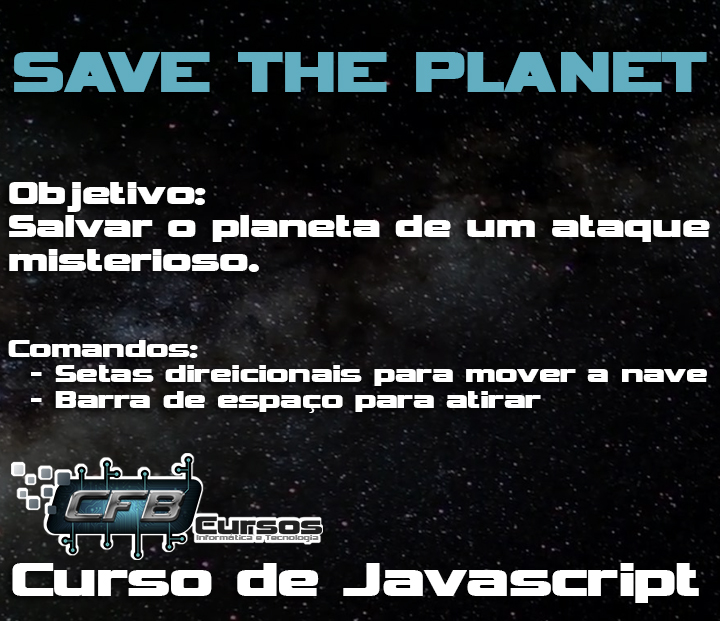
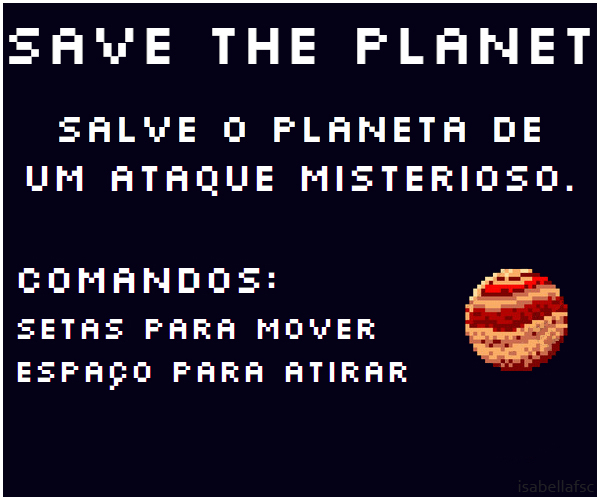
aula087

diff --git a/aula079-087 - Jogo de nave/main.js b/aula079-087 - Jogo de nave/main.js
@@ -6,7 +6,8 @@ var telaWidth, telaHeight //Tamanhos
 var velJogador, velTiro, velBomba //Velocidade
 var tecla, hpPlaneta //Controle
 var jogo = false
-var painelContBombas, intervaloBomba
+var barraPlaneta, painelContBombas, telaMensagem //Painéis
+var intervaloBomba
 var contagemBombas, indiceExplosao, indiceSom //Contador
 
 function teclaDown(event) {
@@ -47,7 +48,7 @@ function teclaUp(event) {
 function criaBomba() {
   if (jogo) {
     var bomba = document.createElement('div')
-    var posBombaX = Math.random() * telaWidth
+    var posBombaX = Math.random() * telaWidth - 20
     var posBombaY = 0
     var atributo1 = document.createAttribute('class')
     var atributo2 = document.createAttribute('style')
@@ -57,6 +58,8 @@ function criaBomba() {
     bomba.setAttributeNode(atributo2)
     document.body.appendChild(bomba)
     contagemBombas--
+    painelContBombas = document.getElementById('contBombas')
+    painelContBombas.innerHTML = 'Bombas restantes: ' + contagemBombas
   }
 }
 
@@ -68,7 +71,7 @@ function controleBombas() {
       posBomba += velBomba
       bombas[i].style.top = posBomba + 'px'
       if (posBomba > telaHeight) {
-        hpPlaneta -= 1
+        hpPlaneta -= 30   //DANO QUE O PLANETA RECEBE
         criaExplosao(2, bombas[i].offsetLeft, null)
         bombas[i].remove()
       }
@@ -124,8 +127,9 @@ function colisaoTiroBomba(tiro) {
 }
 
 function criaExplosao(tipo, x, y) {
-  if (document.getElementById('explosao' + (indiceExplosao - 5))) { //REMOVE ELEMENTO QUANDO TIVER 5 COM MESMO ID
-    document.getElementById('explosao' + (indiceExplosao - 5)).remove()
+  if (document.getElementById('explosao' + (indiceExplosao - 4))) {
+    //REMOVE ELEMENTO QUANDO TIVER 4 COM MESMO ID
+    document.getElementById('explosao' + (indiceExplosao - 4)).remove()
   }
 
   //TIPO (1 = AR) (2 = CHÃO)
@@ -163,7 +167,7 @@ function criaExplosao(tipo, x, y) {
   explosao.appendChild(img)
   explosao.appendChild(som)
   document.body.appendChild(explosao)
-  // document.getElementById('som' + indiceSom).play()
+  document.getElementById('som' + indiceSom).play()
   indiceExplosao++
   indiceSom++
 }
@@ -173,6 +177,45 @@ function controleJogador() {
   posJogadorX += dirJogadorX * velJogador
   jogador.style.top = posJogadorY + 'px'
   jogador.style.left = posJogadorX + 'px'
+
+  if (posJogadorX < 0) {
+    posJogadorX = 0
+  } else if (posJogadorX > telaWidth - 40) {
+    posJogadorX = telaWidth - 40
+  } else if (posJogadorY < 200) {
+    posJogadorY = 200
+  } else if (posJogadorY > telaHeight - 40) {
+    posJogadorY = telaHeight - 40
+  }
+}
+
+function gerenciaGame() {
+  barraPlaneta.style.width = hpPlaneta + 'px'
+
+  if (contagemBombas <= 0) {
+    jogo = false
+    clearInterval(intervaloBomba)
+    bombas = document.getElementsByClassName('bomba')
+    for (var i = 0; i < bombas.length; i++) {
+      if (bombas[i]) {
+        bombas[i].remove()
+      }
+    }
+    telaMensagem.style.backgroundImage = 'url("./assets/vitoria.jpg")'
+    telaMensagem.style.display = 'block'
+  }
+  if (hpPlaneta <= 0) {
+    jogo = false
+    clearInterval(intervaloBomba)
+    bombas = document.getElementsByClassName('bomba')
+    for (var i = 0; i < bombas.length; i++) {
+      if (bombas[i]) {
+        bombas[i].remove()
+      }
+    }
+    telaMensagem.style.backgroundImage = 'url("./assets/derrota.jpg")'
+    telaMensagem.style.display = 'block'
+  }
 }
 
 function gameLoop() {
@@ -182,14 +225,40 @@ function gameLoop() {
     controleTiros()
     controleBombas()
   }
+  gerenciaGame()
   frames = requestAnimationFrame(gameLoop)
 }
 
-function inicia() {
+function reinicia() {
+  telaMensagem.style.display = 'none'
+  clearInterval(intervaloBomba)
+  cancelAnimationFrame(frames)
+  hpPlaneta = 300
+  posJogadorX = telaWidth / 2
+  posJogadorY = telaHeight / 2
+  jogador.style.top = posJogadorY + 'px'
+  jogador.style.left = posJogadorX + 'px'
+  contagemBombas = 20   //QUANTIDADE DE BOMBAS NO JOGO
+  painelContBombas.innerHTML = 'Bombas restantes: 20'
   jogo = true
+  intervaloBomba = setInterval(criaBomba, 1700)
+  gameLoop()
+}
+
+function inicia() {
+  jogo = false
+
+  //CONTROLES TELAS
   telaWidth = window.innerWidth
   telaHeight = window.innerHeight
+  telaMensagem = document.getElementById('telaMensagem')
+  telaMensagem.style.background = 'url("./assets/intro.jpg")'
+  telaMensagem.style.display = 'block'
+  document.getElementById('btnJogar').addEventListener('click', reinicia)
+  painelContBombas = document.getElementById('contBombas')
+  painelContBombas.innerHTML = 'Bombas restantes: 20'
 
+  //CONTROLES JOGADOR
   dirJogadorX = dirJogadorY = 0
   posJogadorX = telaWidth / 2
   posJogadorY = telaHeight / 2
@@ -198,16 +267,16 @@ function inicia() {
   jogador.style.top = posJogadorY + 'px'
   jogador.style.left = posJogadorX + 'px'
 
-  clearInterval(intervaloBomba)
-  contagemBombas = 10 //QUANTIDADE DE BOMBAS NO JOGO
+  //CONTROLES BOMBAS
   velBomba = 3
-  intervaloBomba = setInterval(criaBomba, 1700)
 
+  //CONTROLES EXPLOSÃO
   indiceExplosao = indiceSom = 0
 
-  hpPlaneta = 100
-
-  gameLoop()
+  //CONTROLES PLANETA
+  hpPlaneta = 300
+  barraPlaneta = document.getElementById('barraPlaneta')
+  barraPlaneta.style.width = hpPlaneta + 'px'
 }
 
 document.addEventListener('keydown', teclaDown)

diff --git a/aula079-087 - Jogo de nave/style.css b/aula079-087 - Jogo de nave/style.css
@@ -1,9 +1,13 @@
+@import url('https://fonts.googleapis.com/css2?family=Silkscreen&display=swap');
+
 body {
   overflow-x: hidden;
   overflow-y: hidden;
   background-color: rgb(4, 0, 22);
   color: white;
+  font-family: 'Silkscreen', cursive;
 }
+
 #planeta {
   background-color: green;
   width: 100%;
@@ -21,8 +25,8 @@ body {
 }
 
 #telaMensagem {
-  width: 720px;
-  height: 621px;
+  width: 600px;
+  height: 500px;
   position: absolute;
   margin-left: -25%;
   top: 50px;
@@ -30,15 +34,39 @@ body {
   display: none;
 }
 
+#btnJogar {
+  background-color: white;
+  border: none;
+  font-family: 'Silkscreen', cursive;
+  font-size: 30px;
+  text-align: center;
+  width: 160px;
+  height: 60px;
+  position: absolute;
+  margin-left: -15%;
+  left: 50%;
+  bottom: 20px;
+}
+
+#btnJogar:hover {
+  background-color: rgb(163, 163, 163);
+}
+
 #medidorPlaneta {
   border: 2px solid white;
   width: 300px;
   height: 20px;
 }
+
 #barraPlaneta {
   width: 300px;
   height: 20px;
   background-color: rgb(209, 0, 0);
+}
+
+#contBombas {
+  color: lightgray;
+  margin-top: 5px;
 }
 
 .tiroJogador {

diff --git a/aula079-087 - Jogo de nave/index.html b/aula079-087 - Jogo de nave/index.html
@@ -7,16 +7,18 @@
   </head>
   <body>
     <div id="painel">
-      Planeta
+      HP Planeta
       <div id="medidorPlaneta">
         <div id="barraPlaneta"></div>
       </div>
-      <div id="contBombas"></div>
+      <div id="contBombas">Bombas restantes: </div>
     </div>
-    <div id="naveJogador" class="naveJogador"></div>
-    <div id="telaMensagem" class="telaMensagem">
-      <button id="btnJogar" class="btnJogar">Jogar</button>
+    <div id="naveJogador"></div>
+
+    <div id="telaMensagem">
+      <button id="btnJogar">Jogar</button>
     </div>
+
     <div id="planeta"></div>
 
     <script src="main.js"></script>
